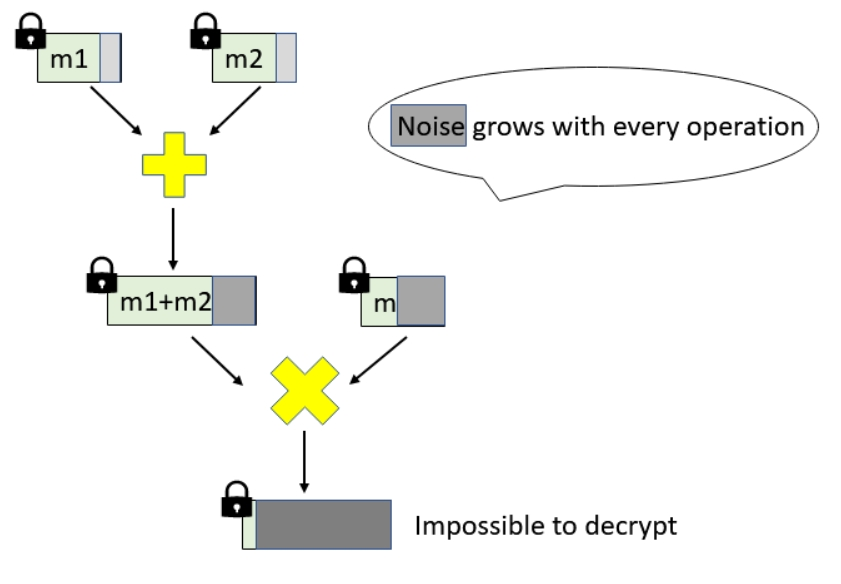
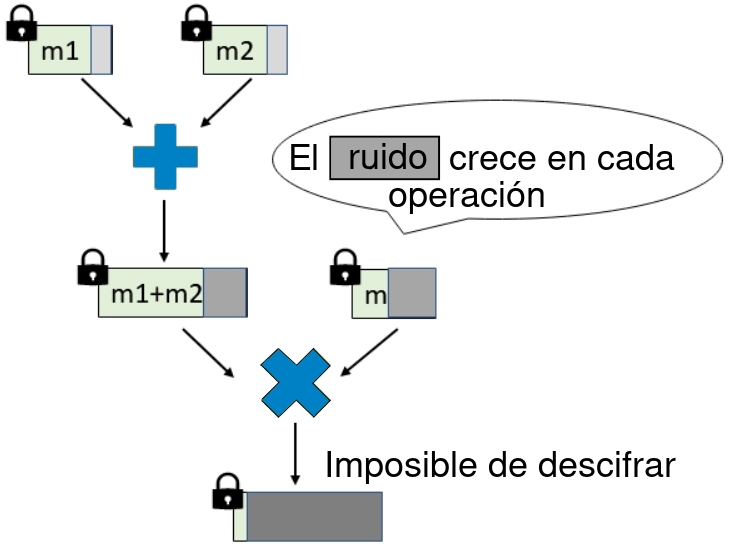
Diapos Boostrapping

diff --git a/risc2/presentacion.tex b/risc2/presentacion.tex
@@ -1,5 +1,5 @@
-%\documentclass[handout]{beamer}
-\documentclass[10pt]{beamer}
+\documentclass[handout]{beamer}
+%\documentclass[10pt]{beamer}
 %for(int i=0; i<n; i++){\documentclass[10pt,handout]{beamer}
 \usepackage[spanish]{babel}
 % % \usepackage[backend=biber, style=authoryear-icomp]{biblatex}
@@ -32,7 +32,6 @@
 
 \usetheme{Copenhagen}
 \definecolor{frenchblue}{rgb}{0.0, 0.45, 0.73} % ESTE!!!!
-
 \setbeamercolor{block body}{bg=frenchblue!50}
 \setbeamercolor*{structure}{fg=frenchblue,bg=blue}
 \setbeamercolor{normal text}{fg=black}
@@ -148,6 +147,7 @@ El camino que tomó el doctorado  no me convenció $\to$ cambio de planes.
 
 \begin{frame}
 \frametitle{Cambio Doctorado}
+        \vspace{0.3cm}
 
 \begin{columns}
     \column{0.5\textwidth}
@@ -166,16 +166,19 @@ El camino que tomó el doctorado  no me convenció $\to$ cambio de planes.
     \column{0.5\textwidth}
 \begin{figure}[h!]
     \centering
-    \includegraphics[scale=0.19]{mult.jpg}
+    \includegraphics[scale=0.19]{fhe.jpg}
 \end{figure}
 \end{columns}
 
 
 Ej: Lograr procesar remotamente con machine learning sin revelar los datos.
+ \vspace{-0.25cm}
 
 Potencialmente con mucha utilidad para uso de cloud computing.
+ \vspace{-0.15cm}
 
-Actualidad: muy lento para uso real.
+Actualidad: ordenes de magnitud lento para uso real.
+ \vspace{-0.15cm}
 
 \begin{mdframed}[backgroundcolor=frenchblue!20]\centering
   Acelerar mediante hardware.
@@ -195,34 +198,68 @@ Actualidad: muy lento para uso real.
 
 \begin{frame}
 \frametitle{FHE}
-Requierimientos FHE:
+Requierimientos y problemas FHE:
+    \vspace{-0.3cm}
 \begin{itemize}
-  \item Homomorfismo en la suma y multiplicación.
-  \item Ilimitada cantidad de operaciones.
-  \item Tiempos razonables
+  \item[\textcolor{frenchblue}{\textbullet}] Homomorfismo en la suma y multiplicación.
+    \vspace{-0.3cm}
+    \begin{itemize}
+      \item[\textcolor{red}{\textbullet}]  No todo esquema es homomorfico en ambas operaciones. Ej RSA permite solo multiplicación (Partially HE).
+    \end{itemize}
+    \vspace{-0.3cm}
+  \item[\textcolor{frenchblue}{\textbullet}] Ilimitada cantidad de operaciones.
+    \vspace{-0.3cm}
+    \begin{itemize}
+      \item[\textcolor{red}{\textbullet}]  La mayoría de esquemas utilizan \texttt{Learning With Errors} (LWE). Aumentando su error por cada operación.
+    \end{itemize}
+    \vspace{-0.3cm}
+  \item[\textcolor{frenchblue}{\textbullet}] Tiempos razonables
+    \vspace{-0.3cm}
+    \begin{itemize}
+      \item[\textcolor{red}{\textbullet}]  Los esquemas actuales tienen un costo muy grande por cada operación: orden del segundo.
+    \end{itemize}
 \end{itemize}
 
-Problemas:
-\begin{itemize}
-  \item No todo esquema es homomorfico en ambas operaciones. Ej RSA permite solo multiplicación (Partially HE).
-  \item La mayoría de esquemas utilizan \texttt{Learning With Errors} (LWE). Aumentando su error por cada operación.
-  \item Los esquemas actuales tienen un costo muy grande por cada operación: orden del segundo.
-\end{itemize}
+%Los criptogramas suelen ser cientos o miles de veces mayor que los datos originales.
+\end{frame}
 
+\begin{frame}
+\frametitle{Ruido}
+\begin{columns}
+    \column{0.5\textwidth}
 
+    \column{0.5\textwidth}
+        \begin{figure}[h!]
+            \centering
+            \includegraphics[scale=0.25]{multNoise.jpg}
+        \end{figure}
+\end{columns}
 
 
 \end{frame}
 
-\begin{frame}
-\frametitle{Boostraping}
-Gentry $\to$ \texttt{Boostraping}: reducir el error luego de una operación.
 
-El boostraping es uno de los principales cuellos de botella de FHE.
-\begin{figure}[h!]
-    \centering
-    \includegraphics[scale=0.3]{multNoise.jpg}
-\end{figure}
+\begin{frame}
+\frametitle{Bootstrapping}
+Gentry (2009) $\to$ primer  esquema FHE mediante \texttt{Bootstrapping}: reducir el error luego de una operación.
+
+Permite tener cualquier cantidad de operaciones.
+
+Operacion muy costosa: principal cuellos de botella de FHE.
+
+Para reducir su uso $\to$ multiples tecnicas: cambio de clave.
+
+
+\begin{mdframed}[backgroundcolor=frenchblue!20]
+  Bootstrapping y cambios de clave representan el 95\% del esferuzo computacion y movimientos de data.
+\end{mdframed}
+\end{frame}
+
+
+\begin{frame}
+\frametitle{}
+  Cada operación homomórfica es $10^3 \sim 10^6$ veces más lento que sin  encriptar.
+
 \end{frame}
 \begin{frame}
 \frametitle{}
@@ -231,4 +268,7 @@ El boostraping es uno de los principales cuellos de botella de FHE.
       \includegraphics[scale=0.3]{agradecimientos.jpg}
   \end{figure}
 \end{frame}
+
+
+
 \end{document}
